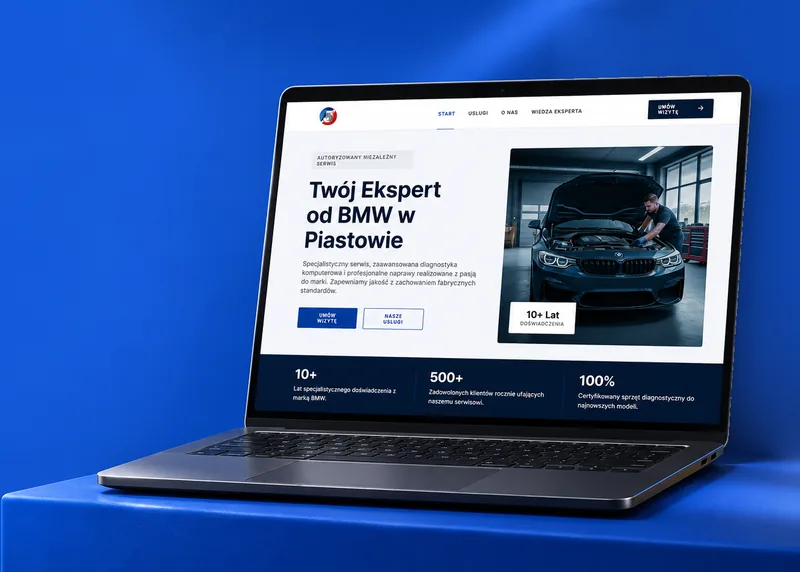
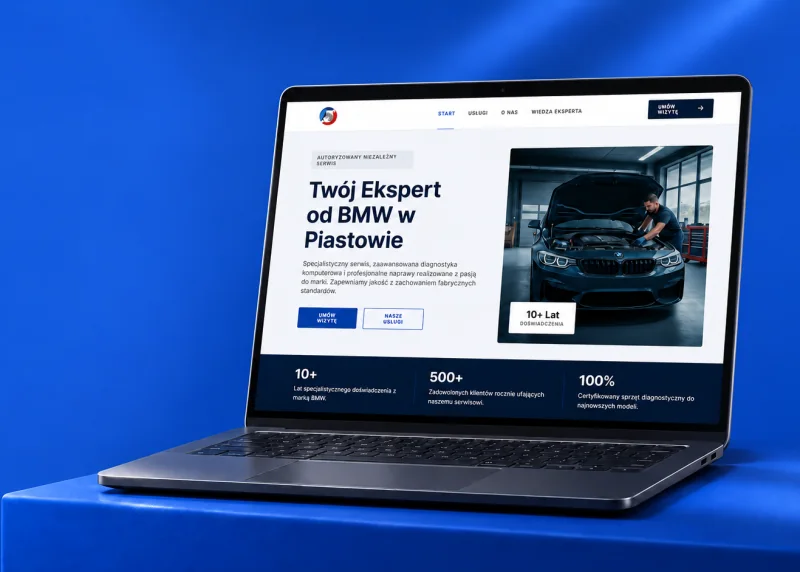
Hero Oferta: nowe zdjęcie laptopa BMW (bez żółtego bloku), tło sekcji #1058DE

diff --git a/style.css b/style.css
@@ -3050,11 +3050,11 @@ html.js .svc-acc-item:not(.is-open) .svc-acc-panel {
 /* ---- HERO wariant PHOTO (oferta.html, 06.11.2026) ----
    Nakładka na --case: zamiast ramki z mockupem + pierścienia + karty jest jeden
    obraz na całą wysokość sekcji, przyklejony do prawej (laptop BMW na niebieskim
-   tle z żółtym blokiem). Lewa krawędź obrazu to jednolity #1158D7, więc tło
+   podeście, bez żółtego bloku od 06.11.2026). Lewa krawędź obrazu to jednolity #1058DE, więc tło
    sekcji ma ten sam kolor, a maska rozmywa szew. Tekst + 2 przyciski z lewej.
    Na <1024px obraz schodzi pod tekst (kadr 7:5 z <source> w <picture>). */
 .svc-hero--photo {
-  background: #1158D7;
+  background: #1058DE;
   display: flex;
   align-items: center;
   min-height: clamp(640px, 52vw, 1040px);
@@ -3116,7 +3116,7 @@ html.js .svc-acc-item:not(.is-open) .svc-acc-panel {
   border: 2px solid #fff;
   color: #fff;
 }
-.svc-hero-btn--outline:hover { background: #fff; color: #1158D7; }
+.svc-hero-btn--outline:hover { background: #fff; color: #1058DE; }
 
 @media (max-width: 1023px) {
   .svc-hero--photo {

diff --git a/oferta.html b/oferta.html
@@ -102,7 +102,7 @@
 <main id="main" tabindex="-1">
 <section id="svc-hero" class="svc-hero svc-hero--b svc-hero--case svc-hero--photo">
   <!-- Obraz hero jako tło na całą szerokość (laptop z prawej). Lewa krawędź obrazu
-       ma jednolity niebieski #1158D7 = tło sekcji, więc maska na lewej krawędzi
+       ma jednolity niebieski #1058DE = tło sekcji, więc maska na lewej krawędzi
        daje płynne przejście bez widocznego szwu. Na mobile ten sam <picture>
        wyświetla się pod tekstem (kadr 7:5 z laptopem). -->
   <picture class="svc-hero-photo">
